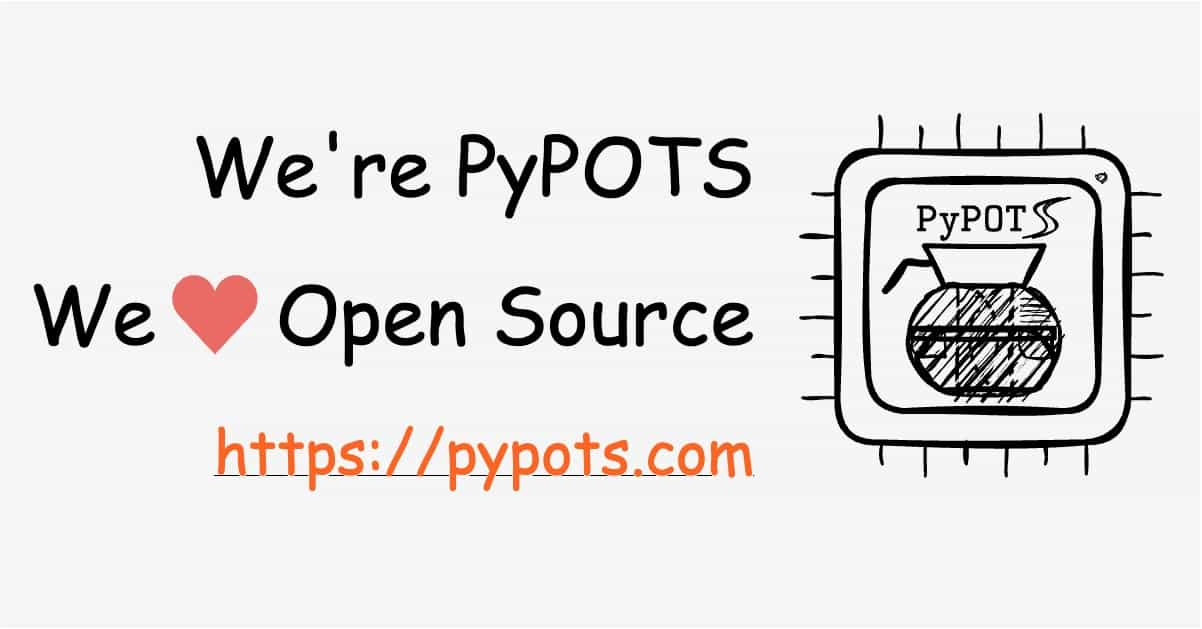
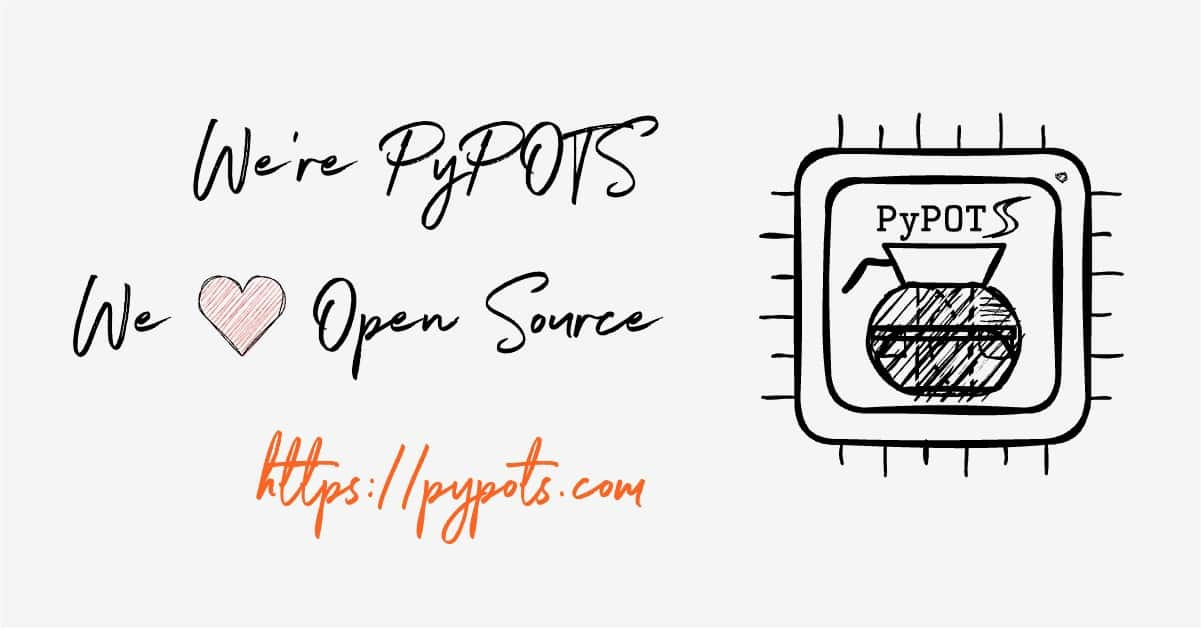
docs: update the site, use the redesigned figure "we are PyPOTS";

Changed region(s): [[0.0308, 0.1812, 0.9858, 0.7552], [0.154, 0.6645, 0.647, 0.876]]

diff --git a/themes/PaperMod/layouts/partials/social_icons.html b/themes/PaperMod/layouts/partials/social_icons.html
@@ -23,7 +23,7 @@
 
     <br>
     <!-- WDU: manually add buttons for sharing -->
-    <a style="font-family: 'Roboto Mono', monospace;">Share with:</a>
+    <a style="font-family: 'Roboto Mono', monospace;">Share with:&nbsp;</a>
     <a class="share-button" target="_blank" rel="noopener noreferrer me" title="Twitter" href="https://twitter.com/intent/tweet/?text=A new library dedicated to modeling incomplete time series is available! Check out PyPOTS (A Python Toolbox for Data Mining on Partially-Observed Time Series) here:&url=https://github.com/WenjieDu/PyPOTS&hashtags=timeseries,missingdata,datamining,machinelearning">
         <svg xmlns="http://www.w3.org/2000/svg" viewBox="0 0 24 24" fill="none" stroke="currentColor" stroke-width="2"
             stroke-linecap="round" stroke-linejoin="round">

diff --git a/themes/PaperMod/assets/css/extended/custom.css b/themes/PaperMod/assets/css/extended/custom.css
@@ -1,6 +1,6 @@
 @font-face{
     font-family: "Northwell Alt";
-    src: url("/fonts/Northwell-Alt.woff") format('woff');
+    src: url("/fonts/handwriting-font.woff") format('woff');
 }
 
 :root {
@@ -36,7 +36,6 @@ body {
     font-weight: lighter;
 }
 
-
 .nav {
     line-height: 60px;
 }
@@ -44,6 +43,7 @@ body {
 /* increase the font style of the header "PyPOTS", size from 24 */
 #top > header > nav > div.logo > a {
     font-size: 40px;
+    font-weight: 500;
     font-family: "Northwell Alt";
 }
 

diff --git a/themes/PaperMod/layouts/partials/home_info.html b/themes/PaperMod/layouts/partials/home_info.html
@@ -13,7 +13,7 @@
             Install PyPOTS right now&nbsp;&nbsp;»
         </a>
 
-        <img id="img-we-are-pypots" alt="We are PyPOTS" src="/figs/PyPOTS_LinkedIn_BG_image.jpg" style="width:570px; margin-top: 60px;">
+        <img id="img-we-are-pypots" alt="We are PyPOTS" src="/figs/PyPOTS_LinkedIn_BG_image.jpg" style="width:600px; margin-top: 60px;">
     </div>
 
 
